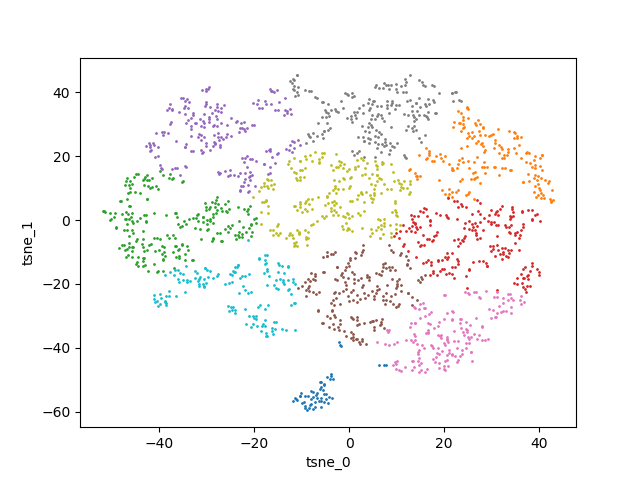
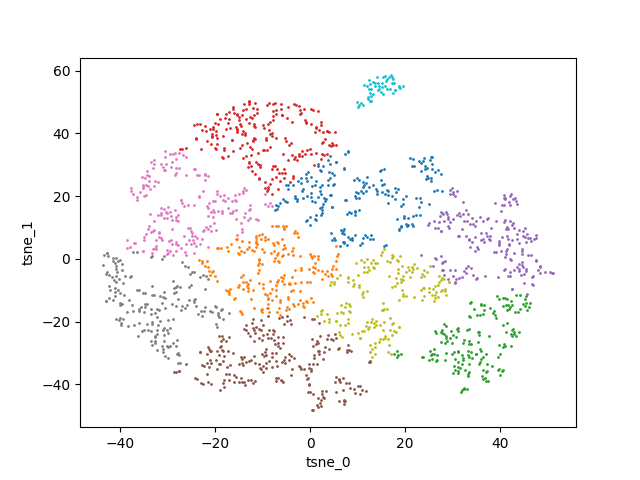
reduced qoi clusters show no clustering in param space

diff --git a/examples/Ni__eam__born_exp_fs_postprocessing/Reduced_TSNE_qoi_in_param/configuration/configure_qoi_clustering.py b/examples/Ni__eam__born_exp_fs_postprocessing/Reduced_TSNE_qoi_in_param/configuration/configure_qoi_clustering.py
@@ -4,7 +4,7 @@ from pypospack.pyposmat.data.pipeline import PyposmatPipeline
 pipeline_configuration = OrderedDict()
 
 # define first segment (normalization)
-pipeline_configuration[0] = OrderedDict()  # int keys indicate step number
+pipeline_configuration[0] = OrderedDict() # int keys indicate step number
 pipeline_configuration[0]['segment_type'] = 'preprocess'
 pipeline_configuration[0]['function_calls'] = OrderedDict()
 pipeline_configuration[0]['function_calls'][0]= OrderedDict()  # int keys allow multiple calls to same function
@@ -14,7 +14,6 @@ pipeline_configuration[0]['function_calls'][0]['args']['cols'] = ['qoi']
 pipeline_configuration[0]['function_calls'][0]['args']['clusters'] = None
 pipeline_configuration[0]['function_calls'][0]['args']['kwargs'] = OrderedDict()
 pipeline_configuration[0]['function_calls'][0]['args']['kwargs']['standard_scaler'] = OrderedDict()
-pipeline_configuration[0]['function_calls'][0]['args']['kwargs']['standard_scaler']['copy'] = False
 pipeline_configuration[0]['function_calls'][0]['args']['kwargs']['standard_scaler']['with_mean'] = True
 pipeline_configuration[0]['function_calls'][0]['args']['kwargs']['standard_scaler']['with_std'] = True
 
@@ -40,7 +39,7 @@ pipeline_configuration[2]['function_calls'][0] = OrderedDict()
 pipeline_configuration[2]['function_calls'][0]['function'] = 'transform_tsne'
 pipeline_configuration[2]['function_calls'][0]['args'] = OrderedDict()
 # throw out pca 0
-pipeline_configuration[2]['function_calls'][0]['args']['abs_cols'] = ['pca_1', 'pca_2']
+pipeline_configuration[2]['function_calls'][0]['args']['abs_cols'] = ['pca_1', 'pca_2', 'pca_3', 'pca_4', 'pca_5', 'pca_6']
 pipeline_configuration[2]['function_calls'][0]['args']['kwargs'] = OrderedDict()
 pipeline_configuration[2]['function_calls'][0]['args']['kwargs']['tsne'] = OrderedDict()
 
@@ -48,7 +47,7 @@ pipeline_configuration[2]['function_calls'][0]['args']['kwargs']['tsne'] = Order
 pipeline_configuration[3] = OrderedDict()
 pipeline_configuration[3]['segment_type'] = 'cluster'
 pipeline_configuration[3]['function_calls'] = OrderedDict()
-pipeline_configuration[3]['function_calls'][0]= OrderedDict()
+pipeline_configuration[3]['function_calls'][0] = OrderedDict()
 pipeline_configuration[3]['function_calls'][0]['function'] = 'cluster_kmeans'
 pipeline_configuration[3]['function_calls'][0]['args'] = OrderedDict()
 pipeline_configuration[3]['function_calls'][0]['args']['cols'] = ['manifold']
@@ -57,12 +56,11 @@ pipeline_configuration[3]['function_calls'][0]['args']['kwargs'] = OrderedDict()
 pipeline_configuration[3]['function_calls'][0]['args']['kwargs']['kmeans'] = OrderedDict()
 pipeline_configuration[3]['function_calls'][0]['args']['kwargs']['kmeans']['n_clusters'] = 2
 
-
 # define fifth segment (plotting)
 pipeline_configuration[4] = OrderedDict()
 pipeline_configuration[4]['segment_type'] = 'plot'
 pipeline_configuration[4]['function_calls'] = OrderedDict()
-pipeline_configuration[4]['function_calls'][0]= OrderedDict()
+pipeline_configuration[4]['function_calls'][0] = OrderedDict()
 pipeline_configuration[4]['function_calls'][0]['function'] = 'plot_by_cluster'
 pipeline_configuration[4]['function_calls'][0]['args'] = OrderedDict()
 pipeline_configuration[4]['function_calls'][0]['args']['x_axis'] = 'tsne_0'

diff --git a/examples/Ni__eam__born_exp_fs_postprocessing/Reduced_TSNE_qoi_in_param/configuration/configure_param_tsne.py b/examples/Ni__eam__born_exp_fs_postprocessing/Reduced_TSNE_qoi_in_param/configuration/configure_param_tsne.py
@@ -4,16 +4,17 @@ from pypospack.pyposmat.data.pipeline import PyposmatPipeline
 pipeline_configuration = OrderedDict()
 
 # define first segment (normalization)
-pipeline_configuration[0] = OrderedDict() # int keys indicate step number
+pipeline_configuration[0] = OrderedDict()  # int keys indicate step number
 pipeline_configuration[0]['segment_type'] = 'preprocess'
 pipeline_configuration[0]['function_calls'] = OrderedDict()
-pipeline_configuration[0]['function_calls'][0]= OrderedDict()  # int keys allow multiple calls to same function
+pipeline_configuration[0]['function_calls'][0] = OrderedDict()  # int keys allow multiple calls to same function
 pipeline_configuration[0]['function_calls'][0]['function'] = 'normalize_standard_scaler'
 pipeline_configuration[0]['function_calls'][0]['args'] = OrderedDict()
 pipeline_configuration[0]['function_calls'][0]['args']['cols'] = ['param']
 pipeline_configuration[0]['function_calls'][0]['args']['clusters'] = None
 pipeline_configuration[0]['function_calls'][0]['args']['kwargs'] = OrderedDict()
 pipeline_configuration[0]['function_calls'][0]['args']['kwargs']['standard_scaler'] = OrderedDict()
+pipeline_configuration[0]['function_calls'][0]['args']['kwargs']['standard_scaler']['copy'] = False
 pipeline_configuration[0]['function_calls'][0]['args']['kwargs']['standard_scaler']['with_mean'] = True
 pipeline_configuration[0]['function_calls'][0]['args']['kwargs']['standard_scaler']['with_std'] = True
 
@@ -39,7 +40,7 @@ pipeline_configuration[2]['function_calls'][0] = OrderedDict()
 pipeline_configuration[2]['function_calls'][0]['function'] = 'transform_tsne'
 pipeline_configuration[2]['function_calls'][0]['args'] = OrderedDict()
 # throw out pca 0
-pipeline_configuration[2]['function_calls'][0]['args']['abs_cols'] = ['pca_1', 'pca_2']
+pipeline_configuration[2]['function_calls'][0]['args']['abs_cols'] = ['pca_1', 'pca_2', 'pca_3', 'pca_4', 'pca_5', 'pca_6']
 pipeline_configuration[2]['function_calls'][0]['args']['kwargs'] = OrderedDict()
 pipeline_configuration[2]['function_calls'][0]['args']['kwargs']['tsne'] = OrderedDict()
 

diff --git a/examples/Ni__eam__born_exp_fs_postprocessing/Reduced_TSNE_qoi_in_param/run_pipeline.py b/examples/Ni__eam__born_exp_fs_postprocessing/Reduced_TSNE_qoi_in_param/run_pipeline.py
@@ -13,7 +13,7 @@ config_fn_1 = os.path.join(pypospack_root_dir,
                            'configure_param_tsne.in')
 config_fn_2 = os.path.join(pypospack_root_dir,
                            configuration_dir,
-                           'configure_param_plot.in')
+                           'configure_final_plot.in')
 
 pyposmat_data_fn = os.path.join(pypospack_root_dir,
                                 'data/Ni__eam__born_exp_fs__3.5NN/pyposmat.kde.4.out')
@@ -36,7 +36,7 @@ if __name__ == "__main__":
 
     pipeline_1.df['cluster_id'] = pipeline_0.df['cluster_id']  # transfer cluster labels
 
-    # plot parameter clusters in param space
+    # plot qoi clusters in parameter space
     pipeline_2 = PyposmatPipeline(configuration_fn=config_fn_2,
                                   df=pipeline_1.df)
     pipeline_2.read_configuration(config_fn_2)

diff --git a/examples/Ni__eam__born_exp_fs_postprocessing/Reduced_TSNE_qoi_in_param/configuration/configure_final_plot.py b/examples/Ni__eam__born_exp_fs_postprocessing/Reduced_TSNE_qoi_in_param/configuration/configure_final_plot.py
@@ -8,7 +8,7 @@ pipeline_configuration = OrderedDict()
 pipeline_configuration[0] = OrderedDict()
 pipeline_configuration[0]['segment_type'] = 'plot'
 pipeline_configuration[0]['function_calls'] = OrderedDict()
-pipeline_configuration[0]['function_calls'][0]= OrderedDict()
+pipeline_configuration[0]['function_calls'][0] = OrderedDict()
 pipeline_configuration[0]['function_calls'][0]['function'] = 'plot_by_cluster'
 pipeline_configuration[0]['function_calls'][0]['args'] = OrderedDict()
 pipeline_configuration[0]['function_calls'][0]['args']['x_axis'] = 'tsne_0'
